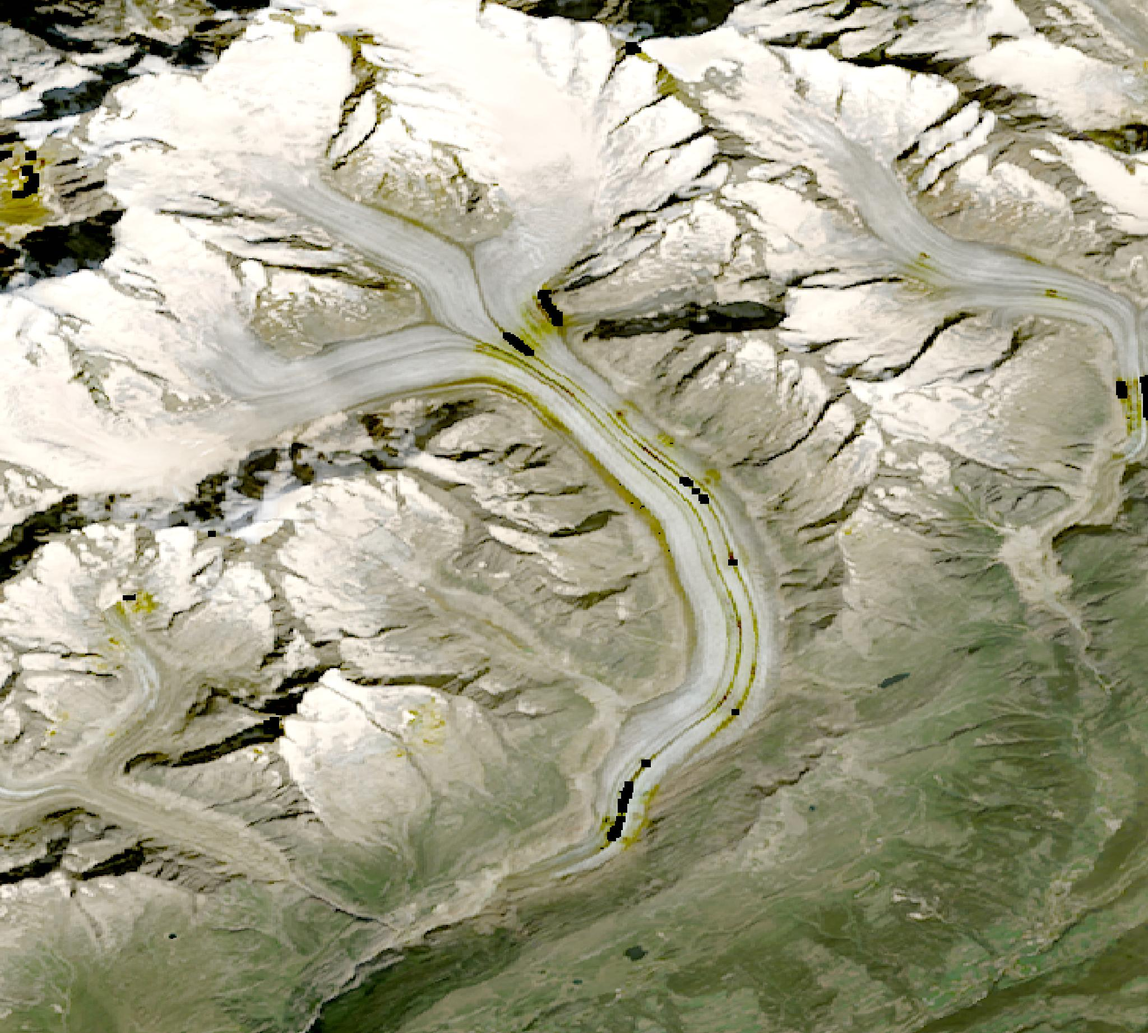
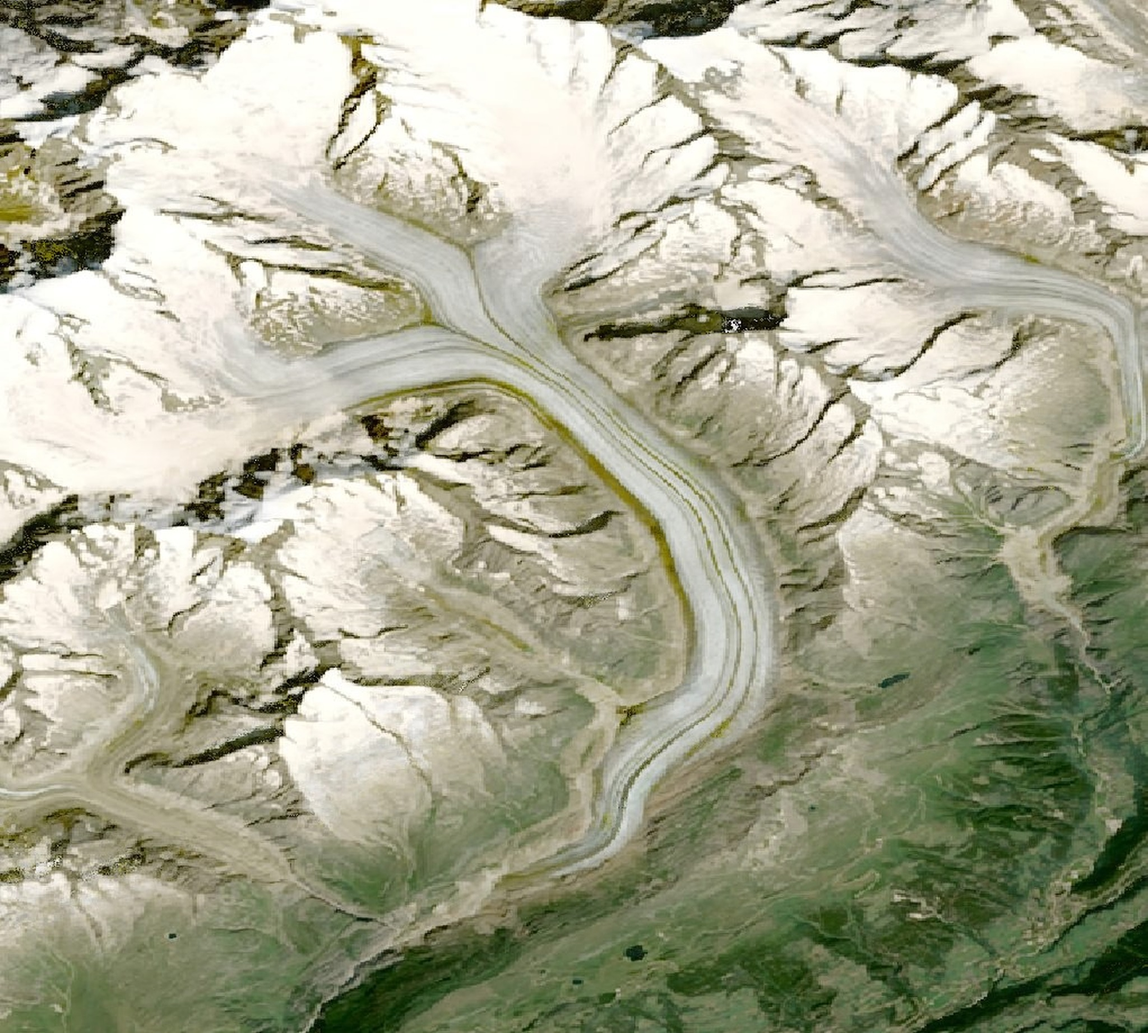
fix: clean Aletsch base texture; list optional relief assets in site.json
The Aletsch base.jpg had HLS no-data blocks over the glacier tongue. It is now
the 12-scene median composite with its few empty pixels filled from their
neighbours, resized to the old 2048 px.

site.json assets now name heightmap_rgb, hillshade and base_hq when the files
exist.

Claude-Session: https://claude.ai/code/session_01J9CFYbxpzAtLrykQ8w8AWk

diff --git a/backend/app/site_export.py b/backend/app/site_export.py
@@ -58,6 +58,11 @@ VARIABLE_FIELDS = (
     "years_needed",
     "residual_pct_non_climate",
 )
+OPTIONAL_ASSETS: Mapping[str, str] = {
+    "heightmap_rgb": "heightmap_rgb.png",
+    "hillshade": "hillshade.png",
+    "base_hq": "base_hq.jpg",
+}
 _TREND_RE = re.compile(r"^trend_(?P<var>.+)\.png$")
 _YEAR_RE = re.compile(r"^year_(?P<var>.+)_(?P<year>\d{4})\.png$")
 
@@ -83,6 +88,9 @@ def find_assets(site_dir: Path) -> dict:
         "heightmap": "heightmap.png" if "heightmap.png" in names else None,
         "heightmap_range_m": range_m,  # PNG 0 -> min_m, 65535 -> max_m
         "base": "base.jpg" if "base.jpg" in names else None,
+        # Optional extras for the 3D view: terrain-RGB heights (0.1 m), relief shading,
+        # cloud-free 30 m median base. Absent files are left out, never guessed.
+        **{key: name for key, name in OPTIONAL_ASSETS.items() if name in names},
         "trend": trend,
         "yearly": yearly,
     }

diff --git a/backend/tests/test_site_export.py b/backend/tests/test_site_export.py
@@ -166,3 +166,13 @@ def test_rounding_helpers():
     assert round_sig(float("nan")) is None and round_sig(5) == 5 and round_sig(True) is True
     assert format_number(-6.4949) == "−6.5" and format_number(0.04213) == "0.042" and format_number(123.4) == "120"
     assert not math.isnan(round_sig(1e-12))
+
+
+def test_find_assets_lists_optional_relief_files_only_when_present(tmp_path):
+    from app.site_export import find_assets
+
+    (tmp_path / "base.jpg").write_bytes(b"x")
+    (tmp_path / "hillshade.png").write_bytes(b"x")
+    assets = find_assets(tmp_path)
+    assert assets["hillshade"] == "hillshade.png"
+    assert "heightmap_rgb" not in assets and "base_hq" not in assets
